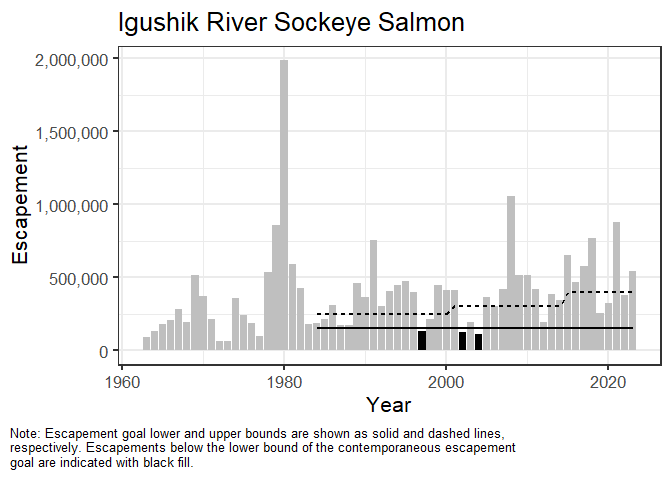
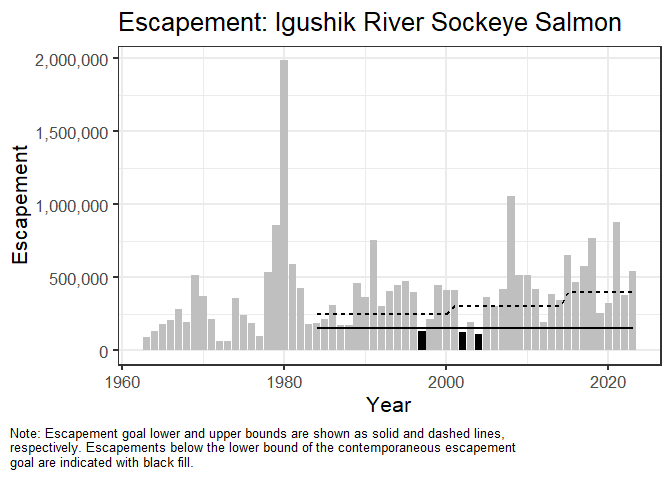
fixed table_SR example, md works now updated readme RMD

Changed region(s): [[0.1562, 0.0, 0.9375, 0.0938]]

diff --git a/README.md b/README.md
@@ -158,7 +158,7 @@ escapements, overlaid with the escapement goal history.
 
 ``` r
 plot_escapement(brood_data = brood_demo, goal_data = goal_Igushik, 
-                title = "Igushik River Sockeye Salmon")
+                title = "Escapement: Igushik River Sockeye Salmon")
 ```
 
 <img src="man/figures/README-plot_escapement_example-1.png" width="75%" />
@@ -171,7 +171,7 @@ Function `plot_profile()` generates a standardized Optimal Yield Profile
 ``` r
 Igushik_profile <- get_profile(post_Igushik_byr63_15, multiplier = 1e-5)
 plot_profile(profile_data = Igushik_profile, goal_data = goal_Igushik, 
-             title = "Igushik River Sockeye Salmon")
+             title = "OYP: Igushik River Sockeye Salmon")
 ```
 
 <img src="man/figures/README-plot_profile_example-1.png" width="75%" />
@@ -188,7 +188,7 @@ post_list <- list(
 profile_list <- lapply(post_list, get_profile, multiplier = 1e-5)
 
 plot_profile_facet(profile_data = profile_list, goal_data = goal_Igushik, 
-                   title = "Igushik River Sockeye Salmon", labelK = TRUE)
+                   title = "OYP: Igushik River Sockeye Salmon", labelK = TRUE)
 ```
 
 <img src="man/figures/README-plot_profile_facet_example-1.png" width="75%" />
@@ -200,7 +200,7 @@ the SR curve and the goal range.
 
 ``` r
 plot_ey(profile_data = Igushik_profile, brood_data = brood_demo,
-        goal_data = goal_Igushik, title = "Igushik River Sockeye Salmon")
+        goal_data = goal_Igushik, title = "EY: Igushik River Sockeye Salmon")
 ```
 
 <img src="man/figures/README-plot_ey_example-1.png" width="75%" />
@@ -212,7 +212,7 @@ S<sub>MSY</sub> and the goal range.
 
 ``` r
 plot_SR(posterior_data = post_Igushik_byr63_15, brood_data = brood_demo,
-        goal_data = goal_Igushik, title = "Igushik River Sockeye Salmon", 
+        goal_data = goal_Igushik, title = "SR: Igushik River Sockeye Salmon", 
         multiplier = 1e-5)
 ```
 
@@ -229,7 +229,7 @@ ggplot(mtcars, aes(wt, mpg)) +
   theme_eg()
 ```
 
-<img src="man/figures/README-theme_eg_example-1.png" width="75%" />
+<img src="man/figures/README-theme_eg_example-1.png" width="50%" />
 
 ### table_SR()
 
@@ -237,9 +237,10 @@ Function `table_SR()` creates a table of SR parameters with confidence
 intervals.
 
 ``` r
-# NOT WORKING
-#table_SR(profile_data = post_Igushik_byr63_15, multiplier = 1e-5)
+table_SR(posterior_data = post_Igushik_byr63_15, multiplier = 1e-5)
 ```
+
+<img src="man/figures/README-table_SR_example-1.png" width="75%" />
 
 ### output_SR()
 
